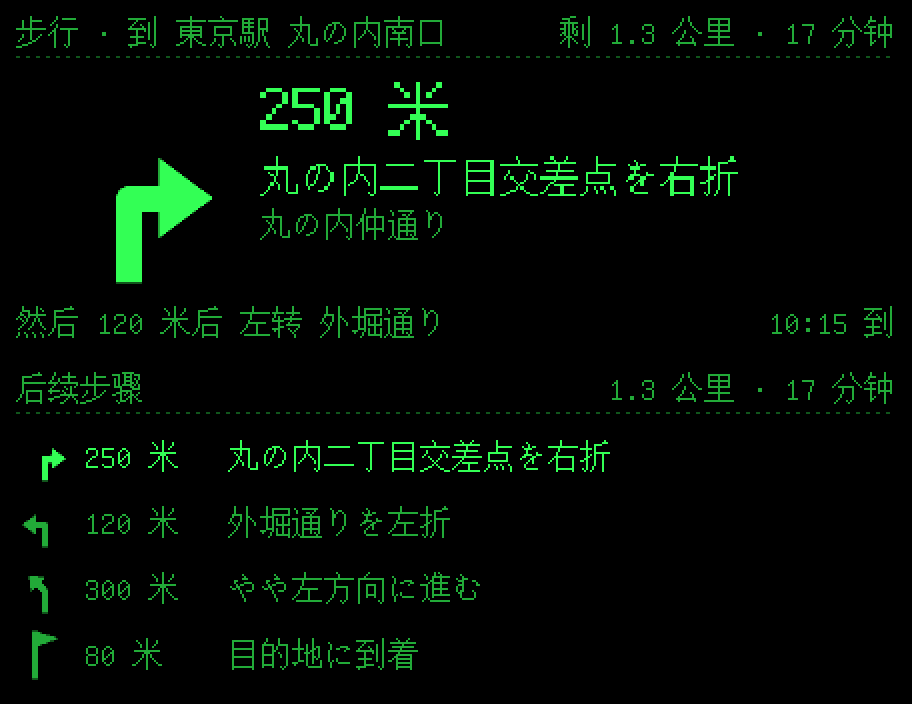
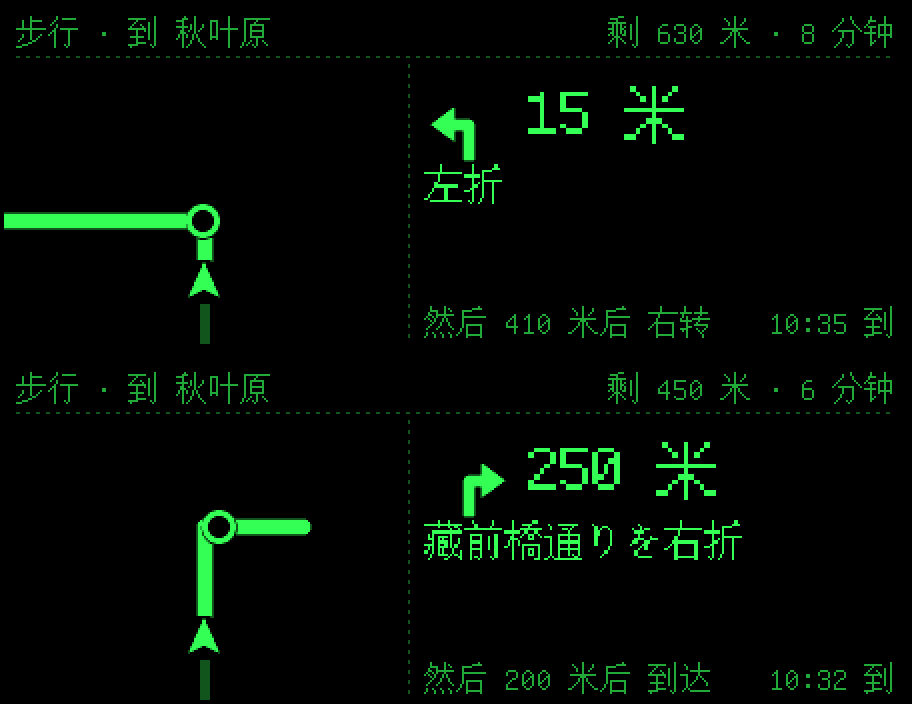
导航：眼镜上加小地图（路线形状、当前位置、下一个转弯点，前进方向朝上）
Claude-Session: https://claude.ai/code/session_01VnvViMANRqEmi9K7RJ3cXS

diff --git a/app/src/main/java/io/github/yingdu/NavApp.kt b/app/src/main/java/io/github/yingdu/NavApp.kt
@@ -48,6 +48,10 @@ class NavApp(private val host: AppHost, private val showOnGlasses: (NavApp) -> U
     var avoidHighways: Boolean
         get() = prefs.getBoolean("avoidHighways", false)
         set(v) { prefs.edit().putBoolean("avoidHighways", v).apply(); host.changed() }
+    /** 眼镜上画小地图（路线形状 + 当前位置，前进方向朝上）。 */
+    var showMap: Boolean
+        get() = prefs.getBoolean("showMap", true)
+        set(v) { prefs.edit().putBoolean("showMap", v).apply(); lastKey = ""; show() }
     /** 每月最多导航几个目的地（0 = 不限）。默认 1000：Navigation SDK 每月前 1000 个目的地免费。 */
     var monthlyLimit: Int
         get() = prefs.getInt("limit", 1000)
@@ -72,6 +76,7 @@ class NavApp(private val host: AppHost, private val showOnGlasses: (NavApp) -> U
         NavGuide.sink = { onSnap(it) }
         NavGuide.onArrived = { arrived() }
         NavGuide.log = { host.log(it) }
+        NavGuide.onMapChanged = { onMapChanged() }
         // 上一个服务实例留下的引导（萤读被关掉后重新打开）：这里接不上它的状态，直接停掉，免得在后台空跑
         NavGuide.useKey(apiKey)
         if (NavGuide.guiding()) NavGuide.stop()
@@ -171,6 +176,17 @@ class NavApp(private val host: AppHost, private val showOnGlasses: (NavApp) -> U
         show()
     }
 
+    /** 位置移动了约 5 米或路线变了，才重画小地图。 */
+    private var lastMapKey = ""
+    private fun onMapChanged() {
+        if (phase != Phase.GUIDING || !showMap) return
+        val h = NavGuide.here ?: return
+        val key = "${Math.round(h.lat * 20000)},${Math.round(h.lng * 20000)},${NavGuide.route.size}"
+        if (key == lastMapKey) return
+        lastMapKey = key
+        show()
+    }
+
     // ---------- 眼镜画面 ----------
 
     private var lastDraw = 0L
@@ -261,6 +277,8 @@ class NavApp(private val host: AppHost, private val showOnGlasses: (NavApp) -> U
         }
         val s: NavSnap = sn
         val icon = NavIcon.of(c.maneuver)
+        val here = NavGuide.here
+        if (showMap && here != null && NavGuide.route.size >= 2) { drawWithMap(f, big, s, c, icon, here, rerouting); return }
         NavDraw.icon(f.canvas, icon, 62f, 92f, 100f, if (rerouting) Frame.DIM else Frame.FULL)
         val x = 128
         val maxW = f.w - x - 6
@@ -279,6 +297,29 @@ class NavApp(private val host: AppHost, private val showOnGlasses: (NavApp) -> U
         val by = f.h - f.small.height - 3
         if (eta.isNotEmpty()) f.text(eta, f.w - 6, by, Frame.DIM, f.small, Frame.RIGHT)
         if (tip.isNotEmpty()) f.text(f.small.ellipsize(tip, f.w - 12 - f.small.measure(eta) - 12), 6, by, Frame.DIM, f.small)
+    }
+
+    /** 左边小地图（前进方向朝上），右边箭头、距离、说明。 */
+    private fun drawWithMap(f: Frame, big: PixelText, s: NavSnap, c: NavStep, icon: NavIcon, here: NavPoint, rerouting: Boolean) {
+        val mapW = 200; val top = 28
+        NavDraw.miniMap(f.canvas, NavGuide.route, here, s.toStepMeters, 0f, top.toFloat(), mapW.toFloat(), (f.h - top).toFloat(), rerouting)
+        // 分隔线
+        var yy = top + 2; while (yy < f.h) { f.rect(mapW + 2, yy, 1, 2, Frame.FAINT); yy += 5 }
+        val x = mapW + 10
+        val maxW = f.w - x - 6
+        val color = if (rerouting) Frame.DIM else Frame.FULL
+        NavDraw.icon(f.canvas, icon, x + 22f, 58f, 44f, color)
+        s.toStepMeters?.let { f.text(NavText.distance(it), x + 52, 38, color, big) }
+        var y = 38 + big.height + 10
+        val line = c.instruction.ifEmpty { listOf(NavIcon.zh(icon), c.road).filter { it.isNotEmpty() }.joinToString(" ") }
+        f.font.wrap(line, maxW).take(2).forEach { l -> f.text(l, x, y, Frame.FULL); y += f.font.height + 4 }
+        // 底部：预计到达 + 下一步
+        val eta = s.remainSeconds?.let { NavText.eta(System.currentTimeMillis(), it) + " 到" } ?: ""
+        val nx = s.next.firstOrNull()
+        val tip = nx?.let { n -> "然后 " + listOfNotNull(n.meters?.let { NavText.distance(it) + "后" }, NavIcon.zh(NavIcon.of(n.maneuver)).ifEmpty { null }).joinToString(" ") } ?: ""
+        val by = f.h - f.small.height - 3
+        if (eta.isNotEmpty()) f.text(eta, f.w - 6, by, Frame.DIM, f.small, Frame.RIGHT)
+        if (tip.isNotEmpty()) f.text(f.small.ellipsize(tip, maxW - f.small.measure(eta) - 8), x, by, Frame.DIM, f.small)
     }
 
     private fun drawSteps(f: Frame) {
@@ -391,6 +432,38 @@ object NavDraw {
                 c.drawLine(cx, cy - h * 0.2f, cx, cy - h * 0.7f, line)
             }
         }
+    }
+
+    /**
+     * 小地图：路线（走过的半亮、前面的全亮加粗）、下一个转弯点（圆圈）、当前位置（中下方的三角，前进方向朝上）。
+     * 只画在 (left, top, w, h) 这个框里。
+     */
+    fun miniMap(c: Canvas, route: List<NavPoint>, here: NavPoint, toTurn: Int?, left: Float, top: Float, w: Float, h: Float, dim: Boolean) {
+        val (seg, on) = NavMap.snap(route, here)
+        val heading = NavMap.headingAt(route, seg, on)
+        val cx = left + w / 2; val cy = top + h * 0.78f
+        val mpp = NavMap.scaleFor(toTurn, (cy - top - 14).toInt())
+        fun pt(p: NavPoint) = NavMap.toScreen(on, p, heading, mpp, cx, cy)
+        c.save()
+        c.clipRect(left, top, left + w, top + h)
+        val past = Paint(Paint.ANTI_ALIAS_FLAG).apply { color = 0xFF606060.toInt(); style = Paint.Style.STROKE; strokeWidth = 5f; strokeCap = Paint.Cap.ROUND; strokeJoin = Paint.Join.ROUND }
+        val ahead = Paint(past).apply { color = if (dim) 0xFFA0A0A0.toInt() else 0xFFFFFFFF.toInt(); strokeWidth = 8f }
+        fun path(points: List<NavPoint>) = Path().apply {
+            points.forEachIndexed { i, p -> val (x, y) = pt(p); if (i == 0) moveTo(x, y) else lineTo(x, y) }
+        }
+        c.drawPath(path(route.subList(0, seg + 1) + on), past)
+        c.drawPath(path(listOf(on) + route.subList(seg + 1, route.size)), ahead)
+        // 下一个转弯点
+        if (toTurn != null && toTurn > 0) {
+            val (tx, ty) = pt(NavMap.pointAlong(route, seg, on, toTurn.toDouble()))
+            c.drawCircle(tx, ty, 9f, Paint(Paint.ANTI_ALIAS_FLAG).apply { color = 0xFF000000.toInt() })
+            c.drawCircle(tx, ty, 7f, Paint(Paint.ANTI_ALIAS_FLAG).apply { color = 0xFFFFFFFF.toInt(); style = Paint.Style.STROKE; strokeWidth = 3f })
+        }
+        // 当前位置：黑底上的白色三角
+        c.drawCircle(cx, cy, 11f, Paint(Paint.ANTI_ALIAS_FLAG).apply { color = 0xFF000000.toInt() })
+        c.drawPath(Path().apply { moveTo(cx, cy - 10); lineTo(cx + 8, cy + 8); lineTo(cx, cy + 4); lineTo(cx - 8, cy + 8); close() },
+            Paint(Paint.ANTI_ALIAS_FLAG).apply { color = 0xFFFFFFFF.toInt() })
+        c.restore()
     }
 
     /** 从 (x0,y0) 指向 (x1,y1) 的实心箭头，尖在 (x1,y1)。 */

diff --git a/app/src/main/java/io/github/yingdu/NavMap.kt b/app/src/main/java/io/github/yingdu/NavMap.kt
@@ -1,0 +1,86 @@
+package io.github.yingdu
+
+import kotlin.math.PI
+import kotlin.math.atan2
+import kotlin.math.cos
+import kotlin.math.hypot
+import kotlin.math.sin
+
+/** 地图上的一个点（纬度、经度）。 */
+data class NavPoint(val lat: Double, val lng: Double)
+
+/**
+ * 眼镜小地图的几何计算（不依赖 Android，方便单元测试）：
+ * 以当前位置为中心、路线前进方向朝上，把路线投影到屏幕上。几百米范围内按平面近似就够准。
+ */
+object NavMap {
+    private const val M_PER_DEG_LAT = 110_574.0
+    private const val M_PER_DEG_LNG_EQ = 111_320.0
+
+    /** 以 o 为原点的平面坐标（米）：x 向东、y 向北。 */
+    fun local(o: NavPoint, p: NavPoint): Pair<Double, Double> =
+        (p.lng - o.lng) * cos(o.lat * PI / 180) * M_PER_DEG_LNG_EQ to (p.lat - o.lat) * M_PER_DEG_LAT
+
+    fun dist(a: NavPoint, b: NavPoint): Double = local(a, b).let { (x, y) -> hypot(x, y) }
+
+    /** 从 a 到 b 的方向（度，正北 0、顺时针）。 */
+    fun bearing(a: NavPoint, b: NavPoint): Double = local(a, b).let { (x, y) -> (atan2(x, y) * 180 / PI + 360) % 360 }
+
+    /** 当前位置落在路线的哪一段上：(段号 i，表示 i 到 i+1 之间；段上最近的点)。 */
+    fun snap(route: List<NavPoint>, p: NavPoint): Pair<Int, NavPoint> {
+        if (route.size < 2) return 0 to (route.firstOrNull() ?: p)
+        var best = 0; var bestPt = route[0]; var bestD = Double.MAX_VALUE
+        for (i in 0 until route.size - 1) {
+            val a = route[i]; val b = route[i + 1]
+            val (bx, by) = local(a, b); val (px, py) = local(a, p)
+            val len2 = bx * bx + by * by
+            val t = if (len2 == 0.0) 0.0 else ((px * bx + py * by) / len2).coerceIn(0.0, 1.0)
+            val q = NavPoint(a.lat + (b.lat - a.lat) * t, a.lng + (b.lng - a.lng) * t)
+            val d = dist(q, p)
+            if (d < bestD) { bestD = d; best = i; bestPt = q }
+        }
+        return best to bestPt
+    }
+
+    /** 沿路线从 (段 seg 上的点 from) 往前走 meters 米到的点。 */
+    fun pointAlong(route: List<NavPoint>, seg: Int, from: NavPoint, meters: Double): NavPoint {
+        var left = meters; var cur = from; var i = seg
+        while (i < route.size - 1) {
+            val next = route[i + 1]
+            val d = dist(cur, next)
+            if (d >= left && d > 0) {
+                val t = left / d
+                return NavPoint(cur.lat + (next.lat - cur.lat) * t, cur.lng + (next.lng - cur.lng) * t)
+            }
+            left -= d; cur = next; i++
+        }
+        return route.lastOrNull() ?: from
+    }
+
+    /**
+     * 当前所在这条路的前进方向：用所在这一段的方向（不越过下一个拐角，免得快到路口时地图提前歪过去）；
+     * 这一段只剩 3 米以内时用下一段（跳过长度为 0 的段）。
+     */
+    fun headingAt(route: List<NavPoint>, seg: Int, from: NavPoint): Double {
+        if (seg + 1 < route.size && dist(from, route[seg + 1]) > 3.0) return bearing(from, route[seg + 1])
+        for (i in seg until route.size - 1) if (dist(route[i], route[i + 1]) > 1.0) return bearing(route[i], route[i + 1])
+        return 0.0
+    }
+
+    /** 投影到屏幕：中心点 c 在 (cx, cy)，heading 方向朝上，每像素 mpp 米。 */
+    fun toScreen(c: NavPoint, p: NavPoint, headingDeg: Double, mpp: Double, cx: Float, cy: Float): Pair<Float, Float> {
+        val (dx, dy) = local(c, p)
+        val h = headingDeg * PI / 180
+        val x = dx * cos(h) - dy * sin(h)
+        val y = dx * sin(h) + dy * cos(h)
+        return (cx + x / mpp).toFloat() to (cy - y / mpp).toFloat()
+    }
+
+    private val SCALES = doubleArrayOf(0.5, 0.75, 1.0, 1.5, 2.0, 3.0, 4.0, 6.0, 8.0)
+
+    /** 比例尺（米/像素）：让下一个转弯点落在当前位置上方 view 像素以内；取固定的几档，免得每秒缩放抖动。 */
+    fun scaleFor(metersToTurn: Int?, view: Int): Double {
+        val want = ((metersToTurn ?: 200).coerceAtLeast(20) * 1.3) / view
+        return SCALES.firstOrNull { it >= want } ?: SCALES.last()
+    }
+}

diff --git a/app/src/main/java/io/github/yingdu/NavGuide.kt b/app/src/main/java/io/github/yingdu/NavGuide.kt
@@ -16,6 +16,7 @@ import com.google.android.libraries.mapsplatform.turnbyturn.model.NavInfo
 import com.google.android.libraries.mapsplatform.turnbyturn.model.StepInfo
 import com.google.android.libraries.navigation.ArrivalEvent
 import com.google.android.libraries.navigation.NavigationApi
+import com.google.android.libraries.navigation.RoadSnappedLocationProvider
 import com.google.android.libraries.navigation.Navigator
 import com.google.android.libraries.navigation.RoutingOptions
 import com.google.android.libraries.navigation.Waypoint
@@ -48,6 +49,46 @@ object NavGuide {
     var lastInfoAt = 0L; private set
     var lastState = -1; private set
     var lastRegisterOk: Boolean? = null; private set
+
+    // ---------- 小地图：路线形状和当前位置（都在主线程读写） ----------
+    /** 当前这段路线的形状点（从起点到目的地）。 */
+    var route: List<NavPoint> = emptyList(); private set
+    /** 吸附到道路上的当前位置。 */
+    var here: NavPoint? = null; private set
+    /** 路线或位置变了（NavApp 用来重画小地图）。 */
+    var onMapChanged: (() -> Unit)? = null
+    private var locProvider: RoadSnappedLocationProvider? = null
+
+    private val locListener = object : RoadSnappedLocationProvider.LocationListener {
+        override fun onLocationChanged(location: android.location.Location) {
+            val p = NavPoint(location.latitude, location.longitude)
+            main.post { here = p; onMapChanged?.invoke() }
+        }
+    }
+
+    private val routeChanged = object : Navigator.RouteChangedListener {
+        override fun onRouteChanged() { main.post { navigator?.let { loadRoute(it) } } }
+    }
+
+    private fun loadRoute(n: Navigator) {
+        val pts = runCatching { n.currentRouteSegment?.latLngs?.map { NavPoint(it.latitude, it.longitude) } }
+            .onFailure { note("读路线形状出错：$it") }.getOrNull().orEmpty()
+        if (pts.size != route.size) note("路线形状：${pts.size} 个点")
+        route = pts
+        onMapChanged?.invoke()
+    }
+
+    private fun startLocation(app: Application) {
+        if (locProvider != null) return
+        locProvider = runCatching { NavigationApi.getRoadSnappedLocationProvider(app) }.onFailure { note("拿不到位置：$it") }.getOrNull()
+        runCatching { locProvider?.addLocationListener(locListener) }.onFailure { note("位置监听出错：$it") }
+    }
+
+    private fun stopLocation() {
+        runCatching { locProvider?.removeLocationListener(locListener) }
+        locProvider = null
+        here = null; route = emptyList()
+    }
     val ready get() = navigator != null
 
     private var keyApplied: String? = null
@@ -97,6 +138,7 @@ object NavGuide {
                 note("Navigator 就绪（SDK ${runCatching { NavigationApi.getNavSDKVersion() }.getOrDefault("?")}）")
                 navigator = n
                 n.addArrivalListener(arrival)
+                runCatching { n.addRouteChangedListener(routeChanged) }
                 flush(n, null)
             }
             override fun onError(errorCode: Int) {
@@ -164,6 +206,8 @@ object NavGuide {
                 if (status == Navigator.RouteStatus.OK) {
                     runCatching { nav.startGuidance() }.onFailure { note("开始引导出错：$it") }
                     note("开始引导：" + (if (runCatching { nav.isGuidanceRunning }.getOrDefault(false)) "引导中" else "引导没有运行"))
+                    loadRoute(nav)
+                    (ctx.applicationContext as? Application)?.let { startLocation(it) }
                     done(null, true); return@post
                 }
                 done(when (status) {
@@ -182,6 +226,7 @@ object NavGuide {
 
     /** 停止引导、清掉目的地、不再接收逐向数据。 */
     fun stop() {
+        stopLocation()
         val n = navigator ?: return
         runCatching { n.stopGuidance() }
         runCatching { n.clearDestinations() }

diff --git a/app/src/test/java/io/github/yingdu/NavLogicTest.kt b/app/src/test/java/io/github/yingdu/NavLogicTest.kt
@@ -129,3 +129,36 @@ class NavRemainTest {
         assertEquals(ok, NavLogicFix.remaining(ok, null, null))
     }
 }
+
+class NavMapTest {
+    private val route = listOf(NavPoint(35.6970, 139.7740), NavPoint(35.6979, 139.7740), NavPoint(35.6979, 139.769575))
+
+    @Test fun snapAndHeading() {
+        val (seg, on) = NavMap.snap(route, NavPoint(35.697765, 139.77401))
+        assertEquals(0, seg)
+        assertEquals(35.697765, on.lat, 1e-6)
+        assertEquals(0.0, NavMap.headingAt(route, seg, on), 1.0)            // 往北走
+        val (seg2, on2) = NavMap.snap(route, NavPoint(35.69791, 139.7720))
+        assertEquals(1, seg2)
+        assertEquals(270.0, NavMap.headingAt(route, seg2, on2), 1.0)        // 拐弯后往西
+    }
+
+    @Test fun projectionHeadingUp() {
+        val c = NavPoint(35.6970, 139.7740)
+        // 往北 100 米、朝北：在中心正上方
+        val (x, y) = NavMap.toScreen(c, NavPoint(35.6970 + 100 / 110_574.0, 139.7740), 0.0, 1.0, 100f, 100f)
+        assertEquals(100f, x, 0.5f); assertEquals(0f, y, 0.5f)
+        // 朝东时，北边的点跑到左边
+        val (x2, y2) = NavMap.toScreen(c, NavPoint(35.6970 + 100 / 110_574.0, 139.7740), 90.0, 1.0, 100f, 100f)
+        assertEquals(0f, x2, 0.5f); assertEquals(100f, y2, 0.5f)
+    }
+
+    @Test fun alongAndScale() {
+        val (seg, on) = NavMap.snap(route, NavPoint(35.697765, 139.7740))
+        val turn = NavMap.pointAlong(route, seg, on, 15.0)
+        assertEquals(0.0, NavMap.dist(turn, route[1]), 0.5)
+        assertEquals(0.5, NavMap.scaleFor(15, 100), 0.0)
+        assertEquals(3.0, NavMap.scaleFor(200, 100), 0.0)
+        assertEquals(8.0, NavMap.scaleFor(5000, 100), 0.0)
+    }
+}

diff --git a/app/src/main/java/io/github/yingdu/MainActivity.kt b/app/src/main/java/io/github/yingdu/MainActivity.kt
@@ -1943,6 +1943,8 @@ class MainActivity : Activity(), ReaderService.UiListener {
         val r = listBox()
         val modeSeg = Seg(NavMode.values().map { it.zh }) { i -> service?.nav?.defaultMode = NavMode.values()[i]; refreshNow() }
         r.addRow(FrameLayout(this).apply { setPadding(dp(14), dp(10), dp(14), dp(12)); addView(modeSeg.root) })
+        val mapT = Toggle { service?.nav?.let { it.showMap = !it.showMap }; refreshNow() }
+        r.addRow(Row("眼镜上显示小地图", "路线形状和当前位置，前进方向朝上").apply { accessory(mapT.root) }.root)
         val voiceT = Toggle { service?.nav?.let { it.voice = !it.voice }; refreshNow() }
         r.addRow(Row("手机语音播报", "下次开始导航时生效").apply { accessory(voiceT.root) }.root)
         val tollT = Toggle { service?.nav?.let { it.avoidTolls = !it.avoidTolls }; refreshNow() }
@@ -1958,7 +1960,7 @@ class MainActivity : Activity(), ReaderService.UiListener {
             usedRow.value("${n.usedThisMonth()} 个目的地")
             limitRow.value(if (n.monthlyLimit > 0) "${n.monthlyLimit} 个" else "不限")
             modeSeg.select(n.defaultMode.ordinal)
-            voiceT.set(n.voice); tollT.set(n.avoidTolls); hwT.set(n.avoidHighways)
+            voiceT.set(n.voice); tollT.set(n.avoidTolls); hwT.set(n.avoidHighways); mapT.set(n.showMap)
         }
         return page
     }

diff --git a/README.md b/README.md
@@ -11,6 +11,7 @@ Nimo 智能眼镜的非官方海外版伴侣 app：用 Google 导航，在日本
 | 功能 | 说明 |
 |---|---|
 | 导航 | 用 Google Navigation SDK 的逐向导航数据：转向箭头、距离、路名、下一步、剩余距离 / 时间、预计到达时刻显示在眼镜上。步行 / 驾车 / 骑行（不支持公共交通）。单击镜腿切换「当前一步 / 后续步骤」 |
+| 小地图 | 眼镜左边画出路线形状、当前位置和下一个转弯点，前进方向朝上，比例尺随转弯距离自动调整（只画路线，不画周围道路；「导航设置」里可关） |
 | 目的地 | 在 Google Maps 里选好地点 →「共享」→ NimoGo（支持短链接、地点链接、坐标、Place ID、geo: 链接）；也可以在「导航」页直接输入地名 |
 | 计费保护 | Navigation SDK 按目的地计费（每月前 1000 个免费，偏航重算不计）。每次开始前确认；本机按月计数，可设每月上限（默认 1000） |
 
